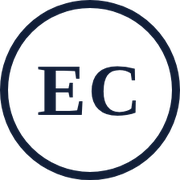
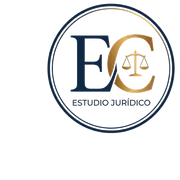
Add files via upload

diff --git a/Assets/style.css b/Assets/style.css
@@ -6,15 +6,15 @@
    ========================================================================== */
 
 :root {
-  --ink: #111E38;          /* Deep Night Blue — marca principal (headers, botones, secciones oscuras) */
-  --ink-soft: #1a2c52;     /* variante más clara del azul noche (cards dentro de paneles oscuros) */
+  --ink: #122740;          /* Navy del logo — marca principal (headers, botones, secciones oscuras) */
+  --ink-soft: #1c3654;     /* variante más clara del azul noche (cards dentro de paneles oscuros) */
   --text: #1E232A;         /* Dark Charcoal — texto de cuerpo */
   --paper: #ffffff;
   --paper-soft: #f8f9fa;   /* Soft Slate Gray para alternar secciones */
   --muted: rgba(30,35,42,0.62);   /* texto de cuerpo sobre blanco (derivado del charcoal) */
   --muted-invert: #b7bdca;        /* texto secundario sobre azul noche */
   --line: #e6e5e2;
-  --accent: #FF5A36;       /* Vibrant Orange — CTAs, badges, links de acento */
+  --accent: #A5783C;       /* Dorado del logo — CTAs, badges, links de acento */
   --whatsapp: #25D366;
   --radius-pill: 999px;
   --radius-card: 18px;
@@ -82,21 +82,23 @@ header.is-scrolled {
   text-decoration: none;
   color: #fff;
 }
-.brand-mark .monogram {
-  width: 40px; height: 40px;
-  border: 1px solid rgba(255,255,255,0.55);
-  border-radius: 50%;
-  display: flex; align-items: center; justify-content: center;
-  font-family: var(--serif);
-  font-size: 15px;
-  letter-spacing: 0.5px;
+.brand-mark .brand-logo {
+  width: 60px; height: 60px;
+  object-fit: contain;
   flex-shrink: 0;
 }
 .brand-mark .brand-name {
   font-family: var(--serif);
-  font-size: 16.5px;
+  font-size: 15.5px;
+  line-height: 1.2;
   letter-spacing: 0.3px;
+  max-width: 220px;
 }
+header.on-light:not(.is-scrolled) .brand-mark,
+header.on-light:not(.is-scrolled) .brand-mark .brand-name { color: var(--ink); }
+header.on-light:not(.is-scrolled) nav.links a { color: rgba(17,39,64,0.72); }
+header.on-light:not(.is-scrolled) nav.links a:hover { color: var(--ink); }
+header.on-light:not(.is-scrolled) .btn-nav-contact { background: var(--ink); color: #fff; }
 nav.links {
   display: flex;
   gap: 28px;
@@ -145,27 +147,13 @@ nav.links a:hover { color: #fff; }
 /* ---------- Hero ---------- */
 .hero {
   background:
-    radial-gradient(circle at 18% 12%, rgba(255,90,54,0.16), transparent 42%),
+    radial-gradient(circle at 18% 12%, rgba(165,120,60,0.18), transparent 42%),
     linear-gradient(150deg, #16233f 0%, #0b1220 60%, #05070d 100%);
   color: #fff;
   padding: 150px 32px 110px;
   margin-top: -86px; /* compensa el header sticky para quedar full-bleed */
   position: relative;
   overflow: hidden;
-}
-.hero-ec-circle {
-  display: flex;
-  align-items: center;
-  justify-content: center;
-  width: 24%;
-  aspect-ratio: 1 / 1;
-  margin: 16px auto 0;
-  border: 2px solid rgba(255,255,255,0.55);
-  border-radius: 50%;
-  font-family: var(--serif);
-  font-weight: 600;
-  font-size: clamp(1.45rem, 2.5vw, 2.2rem);
-  letter-spacing: 1px;
 }
 .hero::after {
   /* motivo lineal sutil, evoca columnas de tribunal sin usar una foto */
@@ -175,13 +163,32 @@ nav.links a:hover { color: #fff; }
   background-image: repeating-linear-gradient(90deg, rgba(255,255,255,0.035) 0 2px, transparent 2px 96px);
   pointer-events: none;
 }
+
+/* Variante clara del hero con foto de fondo (usada en index.html) */
+.hero.hero-light {
+  background:
+    linear-gradient(100deg, rgba(248,249,250,0.96) 0%, rgba(248,249,250,0.90) 32%, rgba(248,249,250,0.62) 60%, rgba(248,249,250,0.40) 100%),
+    url('hero-bg.jpg');
+  background-size: cover;
+  background-position: center;
+  color: var(--text);
+}
+.hero.hero-light::after {
+  background-image: repeating-linear-gradient(90deg, rgba(17,39,64,0.04) 0 2px, transparent 2px 96px);
+}
+.hero.hero-light .kicker { color: rgba(17,39,64,0.65); }
+.hero.hero-light h1 { color: var(--ink); }
+.hero.hero-light .hero-lead { color: rgba(30,35,42,0.78); }
+.hero.hero-light .hero-stat { border-top: 1px solid rgba(17,39,64,0.16); }
+.hero.hero-light .hero-stat-num { color: var(--ink); }
+.hero.hero-light .hero-stat-label { color: rgba(30,35,42,0.6); }
 .hero-inner {
   max-width: var(--maxw);
   margin: 0 auto;
   display: grid;
-  grid-template-columns: 3fr 1fr;
+  grid-template-columns: 1.7fr 1fr;
   gap: 40px;
-  align-items: end;
+  align-items: center;
   position: relative;
 }
 .hero .kicker {
@@ -195,10 +202,19 @@ nav.links a:hover { color: #fff; }
 .hero h1 {
   font-family: var(--serif);
   font-weight: 600;
-  font-size: clamp(3.4rem, 6vw, 5.6rem);
-  line-height: 1.06;
+  font-size: clamp(2.5rem, 4.4vw, 4rem);
+  line-height: 1.12;
   letter-spacing: 0.2px;
-  width: fit-content;
+  max-width: 15ch;
+}
+.hero-lead {
+  font-family: var(--sans);
+  font-weight: 300;
+  font-size: 1.08rem;
+  line-height: 1.55;
+  color: rgba(255,255,255,0.78);
+  max-width: 46ch;
+  margin: 22px 0 32px;
 }
 .hero-side { text-align: right; }
 .hero-side h2 {
@@ -209,10 +225,39 @@ nav.links a:hover { color: #fff; }
   color: #f1f1f1;
   margin-bottom: 24px;
 }
+.hero-stats {
+  display: flex;
+  flex-direction: column;
+  gap: 20px;
+}
+.hero-stat {
+  text-align: right;
+  padding-top: 14px;
+  border-top: 1px solid rgba(255,255,255,0.16);
+}
+.hero-stat-num {
+  display: block;
+  font-family: var(--serif);
+  font-weight: 600;
+  font-size: 2.1rem;
+  color: #fff;
+  line-height: 1.1;
+}
+.hero-stat-label {
+  display: block;
+  font-family: var(--sans);
+  font-size: 12px;
+  letter-spacing: 0.8px;
+  text-transform: uppercase;
+  color: rgba(255,255,255,0.55);
+  margin-top: 4px;
+}
 @media (max-width: 860px) {
   .hero-inner { grid-template-columns: 1fr; }
+  .hero h1 { font-size: 2.3rem; max-width: none; }
   .hero-side { text-align: left; }
-  .hero h1 { font-size: 2.6rem; }
+  .hero-stats { flex-direction: row; gap: 24px; margin-top: 36px; }
+  .hero-stat { text-align: left; flex: 1; }
 }
 
 .coverage-strip {
@@ -349,7 +394,7 @@ h2.section-title {
 }
 .dark-card.featured {
   background: linear-gradient(135deg, #16294d, #05070d);
-  border-color: rgba(255,90,54,0.45);
+  border-color: rgba(165,120,60,0.45);
 }
 
 /* ---------- Cards claras (jurisdicciones) ---------- */
@@ -562,14 +607,9 @@ footer {
   gap: 16px;
   text-align: center;
 }
-.footer-inner .monogram {
-  width: 42px; height: 42px;
-  border: 1px solid rgba(255,255,255,0.3);
-  border-radius: 50%;
-  display: flex; align-items: center; justify-content: center;
-  font-family: var(--serif);
-  color: #fff;
-  font-size: 15px;
+.footer-inner .footer-logo {
+  width: 52px; height: 52px;
+  object-fit: contain;
 }
 footer a { color: #fff; text-decoration: none; }
 footer a:hover { text-decoration: underline; }
